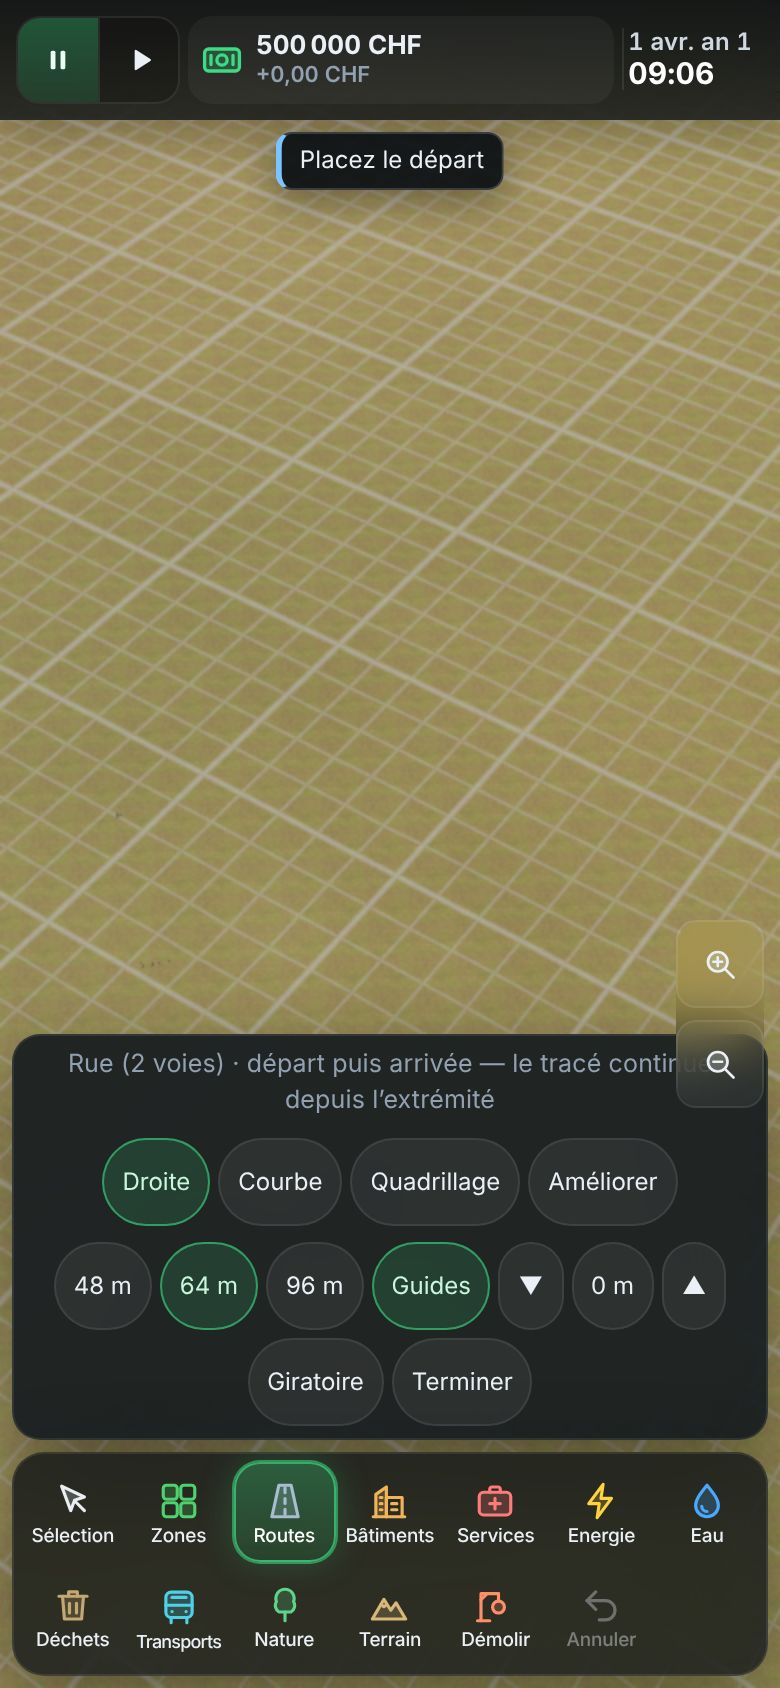
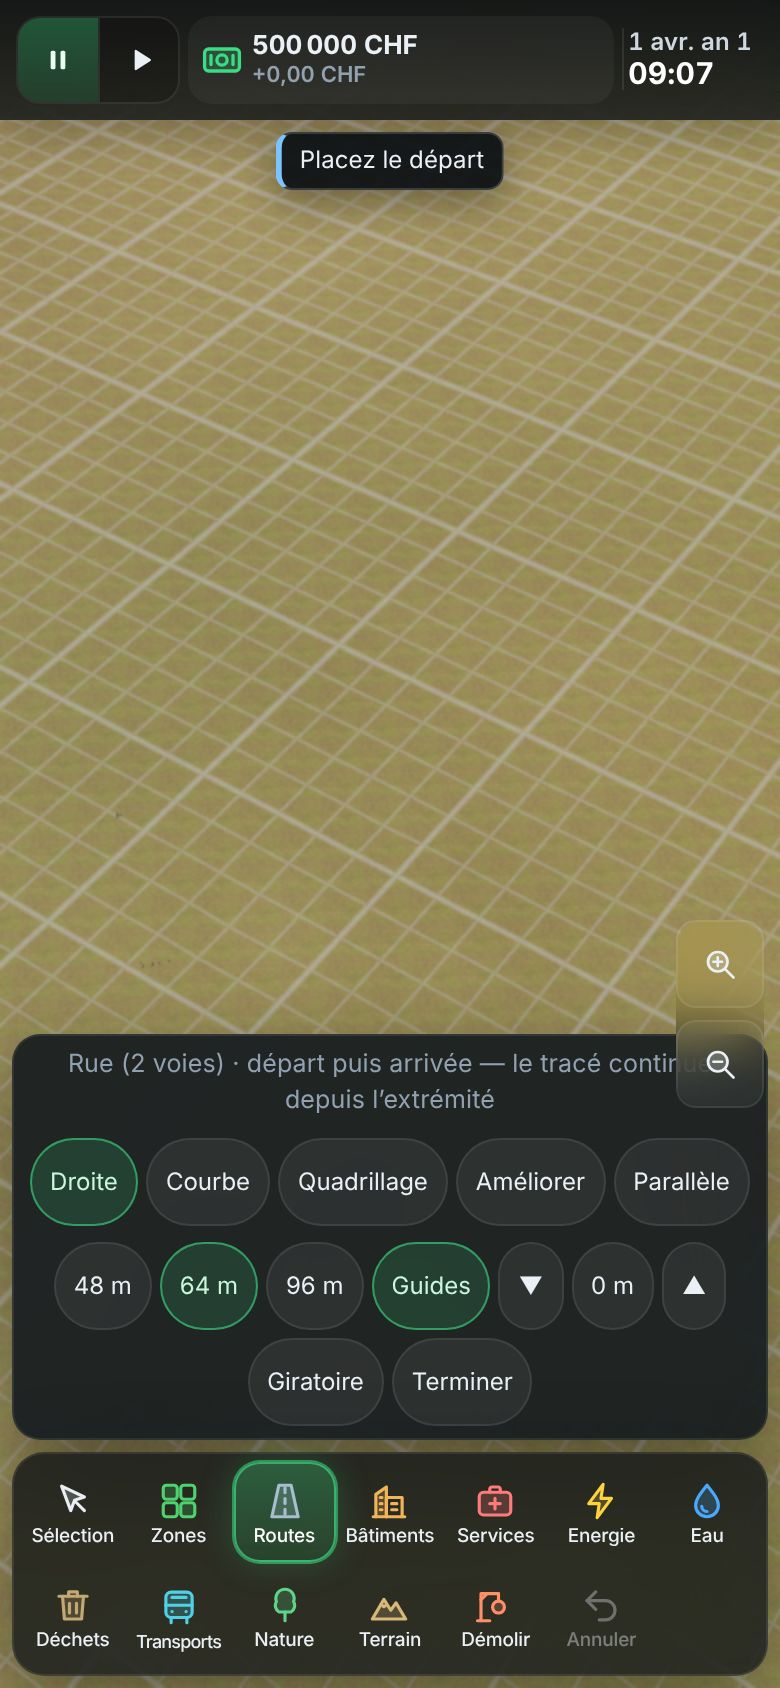
Routes : sous-outil « Parallèle » (copie décalée de 32 à 96 m d'une route droite ou courbe, du côté touché)
Claude-Session: https://claude.ai/code/session_01KGPYpRcs7aMQMS1nZafg6K

Changed region(s): [[0.0308, 0.6469, 0.9538, 0.7393], [0.3385, 0.0, 0.5231, 0.0616], [0.8923, 0.0308, 0.9231, 0.0616]]

diff --git a/city-builder/src/client/tools/machine.ts b/city-builder/src/client/tools/machine.ts
@@ -75,7 +75,9 @@ export const DEMOLISH_REFUND_RATE = 0.25;
 export type Validity = 'pending' | 'ok' | 'error';
 
 /** Sous-outil de l'outil Routes. */
-export type RoadSubTool = 'draw' | 'grid' | 'upgrade';
+export type RoadSubTool = 'draw' | 'grid' | 'upgrade' | 'parallel';
+/** Distances proposées (m, d'axe à axe) pour la route parallèle. */
+export const PARALLEL_DISTANCES = [32, 48, 64, 96] as const;
 /** Action de l'outil « Améliorer » : type suivant (rue → avenue → boulevard), type précis, ou inversion du sens. */
 export type UpgradeTarget = 'next' | 'prev' | 'reverse' | RoadKindId;
 
@@ -139,6 +141,10 @@ export class ConstructionTools {
   /** Lignes guides parallèles aux routes existantes, à distance d'îlot (avec l'aimantation). */
   guides = true;
   upgradeTarget: UpgradeTarget = 'next';
+  /** Route parallèle : distance d'axe à axe (m). */
+  parallelDist: number = PARALLEL_DISTANCES[2];
+  private parallelKey = '';
+  setParallelDist(d: number): void { this.parallelDist = d; this.parallelKey = ''; this.refresh(); }
   private gridStart: { x: number; z: number } | null = null;
   private gridKey = '';
   private upgradeKey = '';
@@ -317,6 +323,7 @@ export class ConstructionTools {
       case 'road': {
         if (this.roadSub === 'grid') { if (this.refreshGrid(g)) return; break; }
         if (this.roadSub === 'upgrade') { if (this.refreshUpgrade(g)) return; break; }
+        if (this.roadSub === 'parallel') { if (this.refreshParallel(g)) return; break; }
         const d = this.draft;
         d.hover = g ? snapRoadPoint(this.mirror, g.x, g.z, { radius: this.snapRadius, angleSnap: this.angleSnap, magnet: this.magnet, grid: this.gridSnap && this.magnet, guideSpacing: this.guides ? this.gridBlock : 0 }, d.phase !== 'idle' ? (d.control ?? d.start ?? undefined) : undefined) : null;
         const points = d.points();
@@ -503,6 +510,76 @@ export class ConstructionTools {
     return out;
   }
 
+  /** Copie décalée d'un tronçon (du côté du pointeur) : 2 points (+ point de contrôle pour une courbe) et tracé d'aperçu. */
+  parallelPlan(near: { edge: RoadEdgeView; px: number; pz: number; tx: number; tz: number }, g: { x: number; z: number }, dist: number): { points: number[]; control?: [number, number]; display: number[] } {
+    const e = near.edge;
+    const perp = (x: number, z: number): [number, number] => { const l = Math.hypot(x, z) || 1; return [-z / l, x / l]; };
+    // Côté : signe par rapport à la normale (même convention que perp) au point le plus proche.
+    const [snx, snz] = perp(near.tx, near.tz);
+    const side = (g.x - near.px) * snx + (g.z - near.pz) * snz >= 0 ? 1 : -1;
+    // Orientation de la tangente du tronçon (a -> b) par rapport à celle du point le plus proche.
+    const dirAB = (e.bx - e.ax) * near.tx + (e.bz - e.az) * near.tz >= 0 ? 1 : -1;
+    const d = dist * side * dirAB;
+    if (!(e.c1 && e.c2)) {
+      const [nx, nz] = perp(e.bx - e.ax, e.bz - e.az);
+      const pts = [e.ax + nx * d, e.az + nz * d, e.bx + nx * d, e.bz + nz * d];
+      return { points: pts, display: pts };
+    }
+    // Courbe : contrôle quadratique retrouvé depuis la Bézier cubique (c1 = a + 2/3 (q - a)), décalé sur la bissectrice.
+    const qx = (3 * e.c1[0] - e.ax) / 2, qz = (3 * e.c1[1] - e.az) / 2;
+    const [nax, naz] = perp(qx - e.ax, qz - e.az), [nbx, nbz] = perp(e.bx - qx, e.bz - qz);
+    let mx = nax + nbx, mz = naz + nbz; const ml = Math.hypot(mx, mz) || 1; mx /= ml; mz /= ml;
+    const k = d / Math.max(0.3, nax * mx + naz * mz);
+    const a2 = [e.ax + nax * d, e.az + naz * d], b2 = [e.bx + nbx * d, e.bz + nbz * d], q2: [number, number] = [qx + mx * k, qz + mz * k];
+    const display: number[] = [];
+    for (let i = 0; i <= 16; i++) { const t = i / 16, u = 1 - t; display.push(u * u * a2[0]! + 2 * u * t * q2[0] + t * t * b2[0]!, u * u * a2[1]! + 2 * u * t * q2[1] + t * t * b2[1]!); }
+    return { points: [a2[0]!, a2[1]!, b2[0]!, b2[1]!], control: q2, display };
+  }
+
+  private parallelCmd: { points: number[]; control?: [number, number] } | null = null;
+
+  private refreshParallel(g: { x: number; z: number } | null): boolean {
+    const near = g ? this.mirror.nearestEdge(g.x, g.z, Math.max(this.parallelDist + 20, this.snapRadius)) : null;
+    const base = { kind: 'road' as const, type: this.roadType, mode: 'straight' as RoadMode, start: null, control: null, hover: null, angle: '', chained: 0 };
+    if (!near || !g || near.dist < 3) {
+      this.parallelKey = ''; this.parallelCmd = null;
+      this.preview = { ...base, points: null, validity: 'ok', cost: 0, length: 0, message: 'Touchez à côté d’une route : sa parallèle sera tracée de ce côté' };
+      return false;
+    }
+    const plan = this.parallelPlan(near, g, this.parallelDist);
+    let length = 0;
+    for (let i = 2; i < plan.display.length; i += 2) length += Math.hypot(plan.display[i]! - plan.display[i - 2]!, plan.display[i + 1]! - plan.display[i - 1]!);
+    const key = `${near.edge.id}|${plan.points.map((v) => v.toFixed(1)).join(',')}|${this.roadType}|${this.mirror.version}`;
+    if (key === this.parallelKey && this.preview.kind === 'road') { this.emit(); return true; }
+    this.parallelKey = key;
+    this.parallelCmd = { points: plan.points, ...(plan.control ? { control: plan.control } : {}) };
+    const def = roadDef(this.roadType);
+    this.preview = { ...base, points: plan.display, validity: 'pending', cost: def ? Math.round(length * def.costPerMeter) : 0, length, message: '' };
+    const seq = ++this.previewSeq;
+    const cmd = this.parallelCmd;
+    this.dry.run(async () => {
+      if (seq !== this.previewSeq) return;
+      let validity: Validity = 'ok', message = '', cost = this.preview.kind === 'road' ? this.preview.cost : 0;
+      try { const r = await this.sim.send('buildRoad', { type: legacyRoadType(this.roadType), kind: this.roadType, ...cmd, dryRun: true }); cost = r.cost; }
+      catch (e) { validity = 'error'; message = errorOf(e).message; }
+      if (this.parallelKey === key && this.preview.kind === 'road') { this.preview = { ...this.preview, validity, message, cost }; this.emit(); }
+    });
+    return false;
+  }
+
+  private async parallelClick(): Promise<void> {
+    const cmd = this.parallelCmd;
+    if (!cmd || this.preview.kind !== 'road' || this.preview.validity === 'error') return;
+    try {
+      const r = await this.sim.send('buildRoad', { type: legacyRoadType(this.roadType), kind: this.roadType, ...cmd });
+      this.applied++;
+      this.undo.push({ label: `Route parallèle : ${roadDef(this.roadType)?.nameFr ?? this.roadType}`, steps: r.edgeIds.map((edgeId) => ({ kind: 'removeRoad', edgeId }) as UndoStep) });
+      this.notify(`Route parallèle construite à ${this.parallelDist} m (−${fmt(r.cost)} ¢)`, 'ok');
+    } catch (e) { this.notify(`Route refusée : ${errorOf(e).message}`, 'error'); }
+    this.parallelKey = '';
+    this.refresh();
+  }
+
   private refreshUpgrade(g: { x: number; z: number } | null): boolean {
     let target: RoadEdgeView | null = null;
     const hit = this.lastRay ? this.mirror.pick(this.lastRay, g) : null;
@@ -642,6 +719,7 @@ export class ConstructionTools {
         case 'road':
           if (this.roadSub === 'grid') await this.gridClick();
           else if (this.roadSub === 'upgrade') await this.upgradeClick();
+          else if (this.roadSub === 'parallel') await this.parallelClick();
           else await this.roadClick();
           break;
         case 'bulldoze': await this.bulldozeCurrent(); break;

diff --git a/city-builder/src/ui/buildbar.ts b/city-builder/src/ui/buildbar.ts
@@ -10,6 +10,7 @@ import type { RoadKindId, ToolId } from '../shared/contracts';
 import { roadDef } from '../client/tools/mirror';
 import { ROAD_KINDS, ROAD_KIND_ORDER } from '../sim/roads/types';
 import type { ConstructionTools, RoadSubTool, UpgradeTarget } from '../client/tools/machine';
+import { PARALLEL_DISTANCES } from '../client/tools/machine';
 import { GRID_BLOCK_SIZES } from '../client/tools/grid';
 import type { ToolController } from '../input/tools';
 import { $, el, fmt, money, phaseBadge } from './dom';
@@ -412,7 +413,7 @@ export class BuildBar {
       mode.append(b);
     }
     const more = el('div', { cls: 'seg', attrs: { role: 'group', 'aria-label': 'Outils de voirie' } });
-    for (const [id, label, tip] of [['grid', 'Quadrillage', 'Quadrillage : tracez un rectangle, un îlot de rues est créé sur la grille de 8 m'], ['upgrade', 'Améliorer', 'Améliorer : touchez une route pour changer son type ou son sens sans la démolir']] as const) {
+    for (const [id, label, tip] of [['grid', 'Quadrillage', 'Quadrillage : tracez un rectangle, un îlot de rues est créé sur la grille de 8 m'], ['upgrade', 'Améliorer', 'Améliorer : touchez une route pour changer son type ou son sens sans la démolir'], ['parallel', 'Parallèle', 'Route parallèle : touchez à côté d’une route, sa copie décalée (32 à 96 m) est proposée de ce côté']] as const) {
       const b = el('button', { cls: m.roadSub === id ? 'active' : '', text: label, attrs: { 'data-road-sub': id } });
       b.dataset['tip'] = tip;
       b.addEventListener('click', () => { this.d.tools.setTool('road'); m.setRoadSub(id); this.closeDrawer(); });
@@ -443,6 +444,7 @@ export class BuildBar {
     if (m.tool === 'road' && m.draft.mode === 'roundabout') return `${m.draft.roundaboutSize === 'large' ? 'Grand giratoire' : 'Giratoire'} — cliquez sur un carrefour ou sur une route`;
     if (m.tool === 'road') {
       if (m.roadSub === 'grid') return `Quadrillage · ${ROAD_KINDS[m.roadType].nameFr} · îlots de ${m.gridBlock} m — premier coin, puis coin opposé (coût affiché avant validation)`;
+      if (m.roadSub === 'parallel') return `Route parallèle à ${m.parallelDist} m — touchez à côté d’une route, du côté voulu (type : ${ROAD_KINDS[m.roadType as RoadKindId]?.nameFr ?? m.roadType})`;
       if (m.roadSub === 'upgrade') return `Améliorer · ${UPGRADE_LABELS[m.upgradeTarget as keyof typeof UPGRADE_LABELS] ?? ROAD_KINDS[m.upgradeTarget as RoadKindId]?.nameFr ?? ''} — désignez une route (coût de la différence)`;
       const chain = m.draft.chained > 0 ? ` · ${m.draft.chained} tronçon${m.draft.chained > 1 ? 's' : ''} — le tracé continue, « Terminer » pour arrêter` : ' — le tracé continue depuis l’extrémité';
       return `${ROAD_KINDS[m.roadType].nameFr}${m.draft.elevation ? ` · ${m.draft.elevation > 0 ? '+' : ''}${m.draft.elevation} m` : ''} · ${m.draft.mode === 'curve' ? 'courbe : départ, courbure, arrivée' : 'départ puis arrivée'}${chain}`;
@@ -497,9 +499,13 @@ export class BuildBar {
       act('Courbe', 'Tracé courbe : départ, point de courbure, arrivée', () => m.setRoadMode('curve'), sub === 'draw' && m.draft.mode === 'curve');
       act('Quadrillage', 'Quadrillage : un rectangle devient un îlot de rues sur la grille de 8 m', () => m.setRoadSub(sub === 'grid' ? 'draw' : 'grid'), sub === 'grid');
       act('Améliorer', 'Améliorer : changer le type ou le sens d’une route sans la démolir', () => m.setRoadSub(sub === 'upgrade' ? 'draw' : 'upgrade'), sub === 'upgrade');
+      act('Parallèle', 'Route parallèle : touchez à côté d’une route existante, sa copie décalée est proposée de ce côté', () => m.setRoadSub(sub === 'parallel' ? 'draw' : 'parallel'), sub === 'parallel');
       this.actions.append(el('span', { cls: 'ta-break', attrs: { 'aria-hidden': 'true' } }));
       if (sub === 'grid' || sub === 'draw') {
         for (const b of GRID_BLOCK_SIZES) act(`${b} m`, `Taille d’îlot ${b} m (quadrillage et lignes guides parallèles)`, () => m.setGridBlock(b), m.gridBlock === b);
+      }
+      if (sub === 'parallel') {
+        for (const d of PARALLEL_DISTANCES) act(`${d} m`, `Distance entre les deux routes (d’axe à axe) : ${d} m`, () => m.setParallelDist(d), m.parallelDist === d);
       }
       if (sub === 'draw') act('Guides', `Lignes guides parallèles aux routes, à ${m.gridBlock} m (avec l’aimantation)`, () => m.setGuides(!m.guides), m.guides && m.magnet);
       if (sub === 'upgrade') {

diff --git a/city-builder/src/input/tools.ts b/city-builder/src/input/tools.ts
@@ -165,7 +165,7 @@ export class ToolController implements IToolController, PointerToolSink {
     this.lastType = type;
     // Au doigt, l'aperçu est décalé au-dessus du point de contact pour rester visible.
     // (Outil Améliorer : on désigne la route sous le doigt, sans décalage.)
-    const lift = type === 'touch' && this.activeTool !== 'select' && !(this.activeTool === 'road' && d.machine.roadSub === 'upgrade') ? TOUCH_LIFT_PX : 0;
+    const lift = type === 'touch' && this.activeTool !== 'select' && !(this.activeTool === 'road' && (d.machine.roadSub === 'upgrade' || d.machine.roadSub === 'parallel')) ? TOUCH_LIFT_PX : 0;
     this.lastScreen.x = sx; this.lastScreen.y = sy - lift;
     const ray = d.camera.screenRay(sx, sy - lift);
     const g = d.camera.groundAt(sx, sy - lift);
@@ -242,7 +242,7 @@ export class ToolController implements IToolController, PointerToolSink {
     this.pendingHover = null;
     this.feed(sx, sy, type);
     this.roadStartedThisGesture = false;
-    if (type !== 'touch' && d.machine.tool === 'road' && d.machine.roadSub !== 'upgrade' && !d.machine.drawing) {
+    if (type !== 'touch' && d.machine.tool === 'road' && d.machine.roadSub !== 'upgrade' && d.machine.roadSub !== 'parallel' && !d.machine.drawing) {
       this.roadStartedThisGesture = true;
       void d.machine.primary();
     }
@@ -278,7 +278,8 @@ export class ToolController implements IToolController, PointerToolSink {
     }
     if (type === 'touch' && m.tool !== 'select') {
       // Route : les étapes intermédiaires se posent au relâcher ; l'action finale se confirme.
-      if (m.tool === 'road' && m.roadSub !== 'upgrade' && (!m.drawing || (m.roadSub === 'draw' && m.draft.mode === 'curve' && m.draft.phase === 'start'))) { void m.primary(); return; }
+      if (m.tool === 'road' && m.roadSub === 'parallel' && !(m.preview.kind === 'road' && m.preview.points)) return;
+      if (m.tool === 'road' && m.roadSub !== 'upgrade' && m.roadSub !== 'parallel' && (!m.drawing || (m.roadSub === 'draw' && m.draft.mode === 'curve' && m.draft.phase === 'start'))) { void m.primary(); return; }
       if (m.tool === 'road' && m.roadSub === 'upgrade' && !(m.preview.kind === 'upgrade' && m.preview.target)) return;
       if (m.tool === 'road' && m.roadSub === 'draw' && !m.draft.points()) return; // doigt relâché sur le départ
       if (m.tool === 'bulldoze' && m.bulldozeArea) {
@@ -292,7 +293,7 @@ export class ToolController implements IToolController, PointerToolSink {
       return;
     }
     if (m.tool === 'road' || ((m.tool === 'terraform' || (m.tool === 'bulldoze' && m.bulldozeArea)) && this.roadStartedThisGesture)) {
-      if (m.tool === 'road' && m.roadSub === 'upgrade' && !tap) return; // Améliorer : un clic franc, pas un glisser
+      if (m.tool === 'road' && (m.roadSub === 'upgrade' || m.roadSub === 'parallel') && !tap) return; // Améliorer, parallèle : un clic franc, pas un glisser
       if (tap && this.roadStartedThisGesture) return; // simple clic de départ
       void m.primary();
       return;
